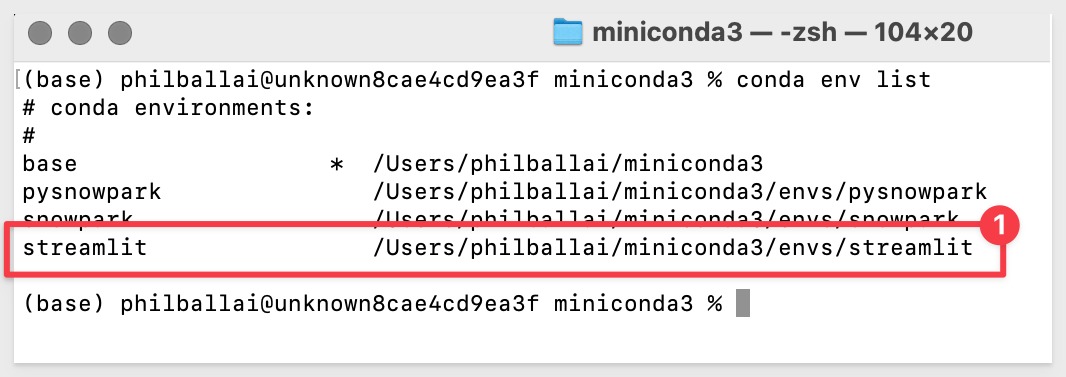
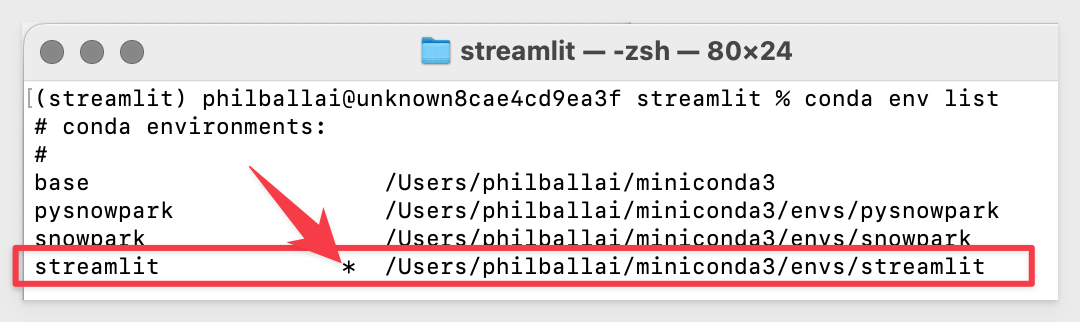
in progress

Changed region(s): [[0.0, 0.0311, 0.9906, 0.9627]]

diff --git a/site/sigmaguides/src/embedding_9_embedding_into_streamlit/embedding5_embedding_into_streamlit.md b/site/sigmaguides/src/embedding_9_embedding_into_streamlit/embedding5_embedding_into_streamlit.md
@@ -21,7 +21,6 @@ Snowflake customers who are using (or interested in using) Streamlit and want to
 <ul>
   <li>A computer with a current browser. It does not matter which browser you want to use.</li>
   <li>Access to your Sigma environment. A Sigma trial environment is acceptable and preferred.</li>
-  <li>A Snowflake account with the proper administrative and security admin access.</li>
   <li>A development environment of choice. We will demonstrate with Microsoft VSCode and related extensions</li>
   <li>Miniconda for required Python packages</li>
 </ul>
@@ -30,14 +29,16 @@ Snowflake customers who are using (or interested in using) Streamlit and want to
 <strong>IMPORTANT:</strong><br> Sigma recommends that you use non-production resources when doing QuickStarts.
 </aside>
 
-<button>[Sigma Free Trial](https://www.sigmacomputing.com/free-trial/)</button> <button>[Snowflake Free Trial](https://signup.snowflake.com/)</button> <button>[Microsoft VSCode](https://code.visualstudio.com/download)</button> <button>[Miniconda](https://docs.conda.io/en/latest/miniconda.html)</button>
+<button>[Sigma Free Trial](https://www.sigmacomputing.com/free-trial/)</button> <button>[Microsoft VSCode](https://code.visualstudio.com/download)</button> <button>[Miniconda](https://docs.conda.io/en/latest/miniconda.html)</button>
   
 ### What You’ll Learn
 What is Snowflake Streamlit and how can we embed Sigma content into it.
 
 ### What You’ll Build
 
-INSERT IMAGE OF FINAL BUILD IF APPROPRIATE.........
+We will use Streamlit and Sigma to build a webpage that embed a Sigma dashboard:
+
+<img src="assets/sl19.png" width="800"/>
 
 ![Footer](assets/sigma_footer.png)
 <!-- END OF OVERVIEW -->
@@ -129,7 +130,12 @@ When prompted to proceed, type `y` and hit return:
 
 <img src="assets/sp7.png" width="600"/>
 
-Listing the environments again, we should see `base` and `streamlit` with base being the current select noted by the "*":
+We need to activate our new environment. Run the command:
+```plaintext
+conda activate streamlit
+```
+
+Listing the environments again, we should see `streamlit` being the current select noted by the "*":
 ```plaintext
 conda env list
 ```
@@ -315,6 +321,8 @@ You will notice that the code is the same as before but extended in the st.markd
 Save the new code and refresh the browser page to see the embedded Sigma content:
 
 <img src="assets/sl19.png" width="800"/>
+
+Congratulations, you have setup your Streamlit app with Sigma embedded into it. 
 
 
 ![Footer](assets/sigma_footer.png)
